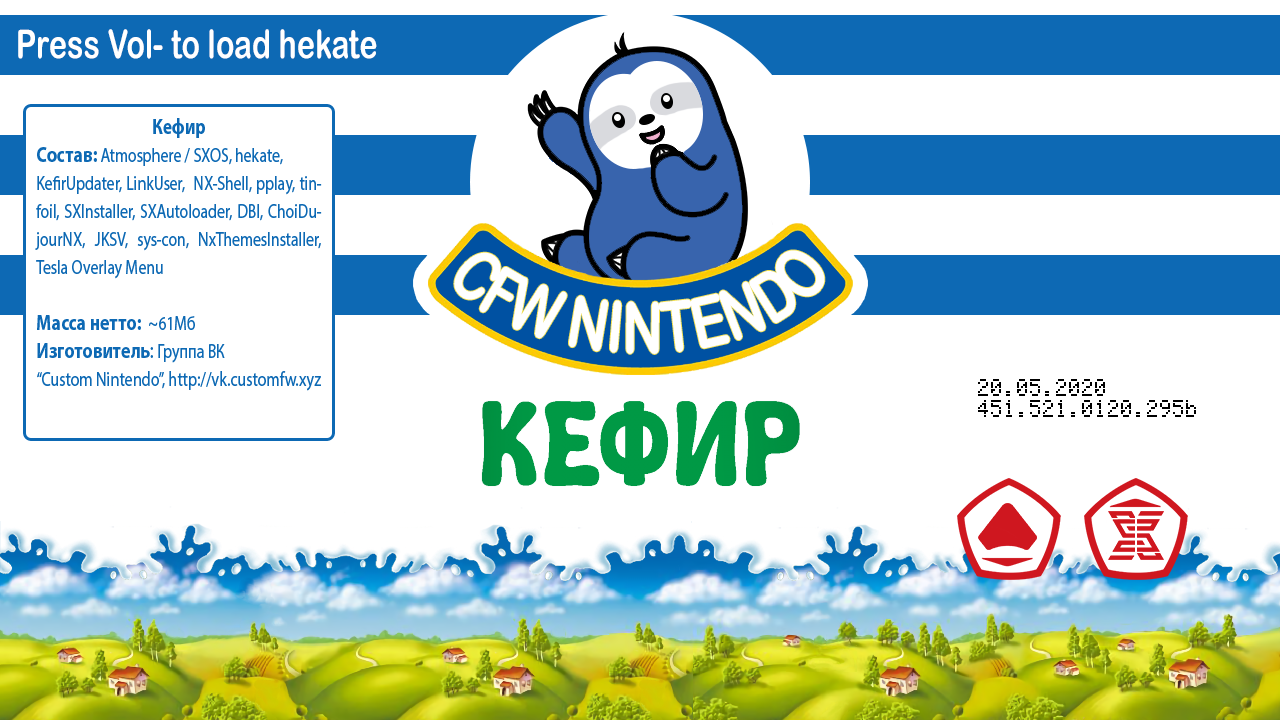
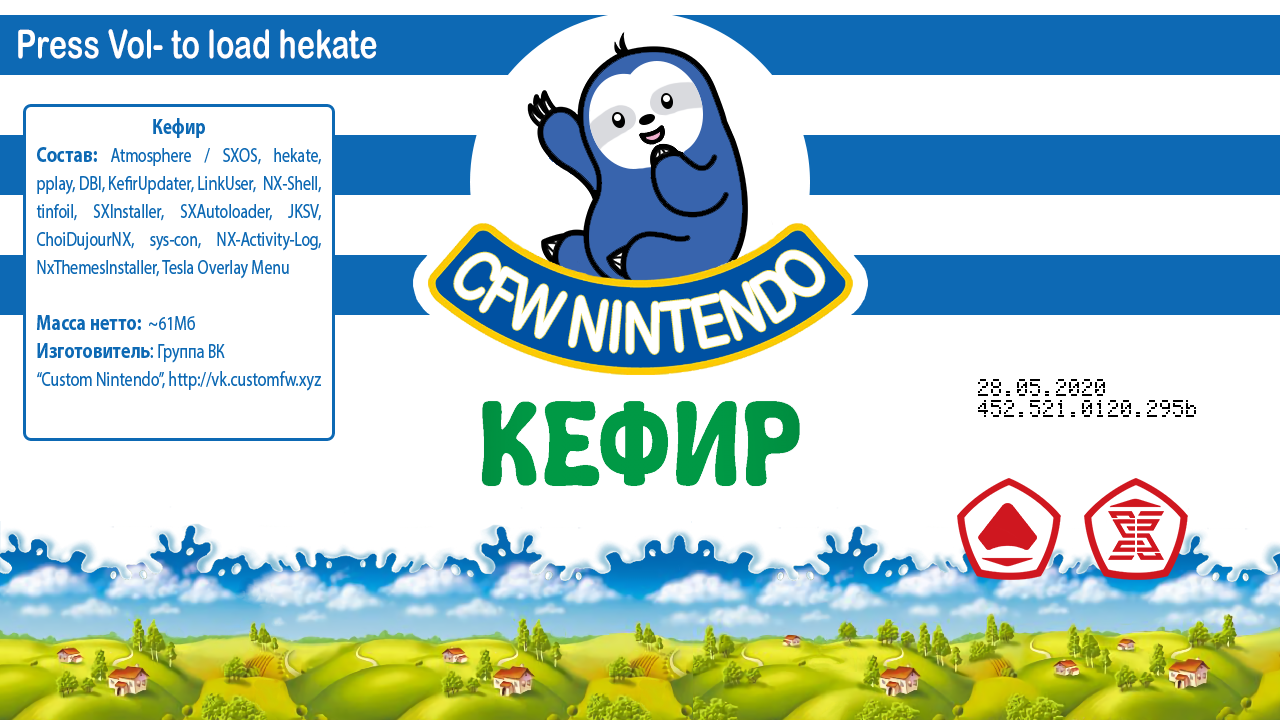
kefir452

Changed region(s): [[0.0312, 0.1833, 0.25, 0.3972]]

diff --git a/_pages/kefir.md b/_pages/kefir.md
@@ -23,11 +23,11 @@ author_profile: true
 {% spoiler Состав кефира %}
 
 1. **[Кастомная прошивка](cfw){:target="_blank"}**. Вы можете выбрать один из двух вариантов - **[Atmosphere](https://github.com/Atmosphere-NX/Atmosphere/releases/){:target="_blank"}** или **[SX OS](https://sx.xecuter.com){:target="_blank"}**, или даже поставить сразу обе и переключаться между ними при перезагрузке.
-2. **[Сигпатчи](https://gbatemp.net/threads/does-not-support-latest-fw-i-heard-that-you-guys-need-some-sweet-patches-for-atmosphere.521164/){:target="_blank"}**. Благодаря сигпатчам на Atmosphere можно запускать неподписанные (читай: *пиратские*) приложения и игры. В SX OS сигпатчи встроены по-умолчанию, но не доступны в бесплатной версии прошивки
+2. **[Сигпатчи](https://gbatemp.net/threads/latest-fs-and-acid-patches-for-kosmos.562915/){:target="_blank"}**. Благодаря сигпатчам на Atmosphere можно запускать неподписанные (читай: *пиратские*) приложения и игры. В SX OS сигпатчи встроены по-умолчанию, но не доступны в бесплатной версии прошивки
 3. **Загрузчик [hekate](https://github.com/CTCaer/hekate/releases/latest){:target="_blank"}**. Благодаря загрузчику вы можете запускать прошивку и другие {% include abbr/payload.txt abbr="пейлоады" %} через удобное меню, создавать и восстанавливать резервную копию NAND, делать EmuNAND, получать информацию о состоянии системы, монтировать карту памяти к ПК без вытаскивания её из свитча, делать переразметку карты памяти для установки других ОС и многое другое
 4. **Установленные {% include abbr/payload.txt abbr="пейлоады" %}**:
   * [Lockpick_RCM](https://github.com/shchmue/Lockpick_RCM/releases/latest){:target="_blank"} - программа для [дампа ключей приставки](backup-nand#часть-iii---дампим-ключи){:target="_blank"}
-  * [Incognoto_RCM](https://github.com/borntohonk/Incognito_RCM/releases/){:target="_blank"} - программа, стирающая серийный номер приставки, чтобы [заблокировать обновления и спрятать консоль от Nintendo](https://switch.customfw.xyz/block-update){:target="_blank"}
+  * **Incognoto_RCM** - программа, стирающая серийный номер приставки, чтобы [заблокировать обновления и спрятать консоль от Nintendo](https://switch.customfw.xyz/block-update){:target="_blank"}
 5. **Установленное Homebrew**
   * DBI - программа для [установки игр](games){:target="_blank"} по USB или с карты памяти
   * [{% include /inc/tinfoil.txt %}](http://tinfoil.io){:target="_blank"} - программа, позволяющая [качать игры](tinfoil){:target="_blank"} для приставки прямо из сети 
@@ -36,7 +36,7 @@ author_profile: true
   * [JKSV](https://github.com/J-D-K/JKSV/releases){:target="_blank"} - программа для резервного копирования и восстановления сейвов
   * [Kefir Updater](https://github.com/rashevskyv/kefir-updater/releases){:target="_blank"} - программа для обновления kefir через интернет
   * [pplay](https://github.com/Cpasjuste/pplay/releases/latest){:target="_blank"} - видеоплеер 
-  * [ChoiDujourNX ](https://switchtools.sshnuke.net/){:target="_blank"} - программа для [безопасного обновления](update-to-latest){:target="_blank"} версии системного ПО приставки
+  * [ChoiDujourNX](https://switchtools.sshnuke.net/){:target="_blank"} - программа для [безопасного обновления](update-to-latest){:target="_blank"} версии системного ПО приставки
   * [NXThemes Installer](https://github.com/exelix11/SwitchThemeInjector/releases/latest){:target="_blank"} - менеджер кастомных тем 
   * [switch-cheats-updater](https://github.com/HamletDuFromage/switch-cheats-updater/releases){:target="_blank"} - программа для закачки [читов](cheats){:target="_blank"} для установленных игр.
   * Link Account - программа [привязки аккаунта](link-account){:target="_blank"}, а так же для форматирования приставки

diff --git a/_pages/update-to-latest.md b/_pages/update-to-latest.md
@@ -57,9 +57,9 @@ author_profile: true
 * Свежая версия {% include abbr/kefir_addr.txt %}
 * Прошивка {% include /vars/update_version.txt %} (скачайте по любой из ссылок):
 	* [magnet](magnet:?xt=urn:btih:7C2E64154F521F612CC63014AC53D546F401C2EC&dn=10.0.2.zip&tr=udp%3a%2f%2ftracker.openbittorrent.com%3a80%2fannounce){:target="_blank"}
-	* [ЯД](https://yadi.sk/d/e9ps1iSSoNksHg){:target="_blank"}
-	* [GD](https://drive.google.com/open?id=1woBdN2qDGn6S3vk0Q3yQBrcYg8ELDXga&authuser=aimaxwell@wccnet.edu&usp=drive_fs){:target="_blank"}
-	* [MEGA](https://mega.nz/file/hk0ETCJR#tTpx4wzg1VbEmYLy67Wnvizfpkpyyu-8QvsE2dcsTRo){:target="_blank"}
+	* [ЯД](https://yadi.sk/d/2ovRxHAAMlgaag){:target="_blank"}
+	* [GD](https://drive.google.com/file/d/1NziGb4kKfDoQZ8KZkXMPIKasy4UUELOI/view?usp=sharing){:target="_blank"}
+	* [MEGA](https://mega.nz/file/BkEE1aYQ#g-axm_0KLjKGExR0bZVZIbocwbjFEhlbQta6bK2-sZM){:target="_blank"}
 * Карта памяти 
 
 ## Инструкция
@@ -91,7 +91,7 @@ author_profile: true
 		* После того, как вы удачно обновите системное ПО, обязательно **ещё раз установите {% include abbr/kefir_addr.txt %}**
 1. Скопируйте **содержимое** архива `{% include /vars/update_version.txt %}.zip` с прошивкой в корень карты памяти
 	* Ещё раз - **содержимое** архива **с прошивкой**. Не архив с кефиром, **с прошивкой**! Архив с прошивкой расположен в части [Что понадобится](#что-понадобится). Нужно скопировать не сам архив, а именно его **содержимое**
-	* Вместо этого вы можете скачать архив со свежей версией системного ПО через приложение **FreshHay** прямо на вашей приставке. Для этого запустите [HBL](hbl){:target="_blank"} через игру, выберите приложение **FreshHay** и нажмите (A), чтобы начать закачку прошивки. Программа сама скачает последнюю версию системного ПО и распакует его в корень карты памяти.
+	* Вместо этого вы можете скачать архив со свежей версией системного ПО через приложение **FreshHay** прямо на вашей приставке. Для этого запустите [HBL](hbl){:target="_blank"} через игру, выберите приложение **FreshHay** и нажмите (A), чтобы начать закачку прошивки. Программа сама скачает последнюю версию системного ПО в папку `switch/FreshHay`. После, распакуйте скачанный архив с помощью NXShell 
 1. Вставьте карту памяти обратно в приставку
 
 ### Часть III - Обновление прошивки

diff --git a/_pages/troubleshooting.md b/_pages/troubleshooting.md
@@ -111,7 +111,7 @@ author_profile: true
 {% endspoiler %}
 
 {% spoiler Как удалить скачанную, но ещё не установленную прошивку?  %}
-**О:** На прошитой приставке выключите консоль, достаньте картридж, запустите [hekate](fusee-gelee){:target="_blank"}, выберите "**Launch**" -> "**ваша_прошивка**" и, сразу, после появления сплеш-скрина кефира, зажмите (vol+) + (vol-) и не отпускайте их, пока не попадёте в меню восстановления. После сплешскрина Atmosphere, Nintendo и логотипа Switch, вы попадёте в меню восстановления в котором будет отображаться текущая версия прошивки. После перезагрузки приставки скачанное обновление удалиться. Посмотреть как это делается можно [здесь](https://www.youtube.com/watch?v=9W3Dypvn67I){:target="_blank"}
+**О:** На прошитой приставке выключите консоль, достаньте картридж, запустите [hekate](fusee-gelee){:target="_blank"}, выберите "**Launch**" -> "**ваша_прошивка**" и, сразу, после появления сплеш-скрина кефира, зажмите (vol+) + (vol-) и не отпускайте их, пока не попадёте в меню восстановления. После сплешскрина Atmosphere, Nintendo и логотипа Switch, вы попадёте в меню восстановления в котором будет отображаться текущая версия прошивки. После перезагрузки приставки скачанное обновление удалится. Посмотреть как это делается можно [здесь](https://www.youtube.com/watch?v=9W3Dypvn67I){:target="_blank"}
 
 Если ваша приставка еще не прошита, просто выключите ее и включите с зажатыми кнопками громкости
 

diff --git a/_pages/home.md b/_pages/home.md
@@ -7,7 +7,7 @@ header:
   overlay_image: images/home-page-feature.jpg
   overlay_filter: 0.5
   caption:
-excerpt: 'Полное руководство по прошивке Nintendo Switch<br />**Последнее изменение:** 27 мая'
+excerpt: 'Полное руководство по прошивке Nintendo Switch<br />**Последнее изменение:** 28 мая'
 ---
 
 {% include toc title="Разделы" %}
